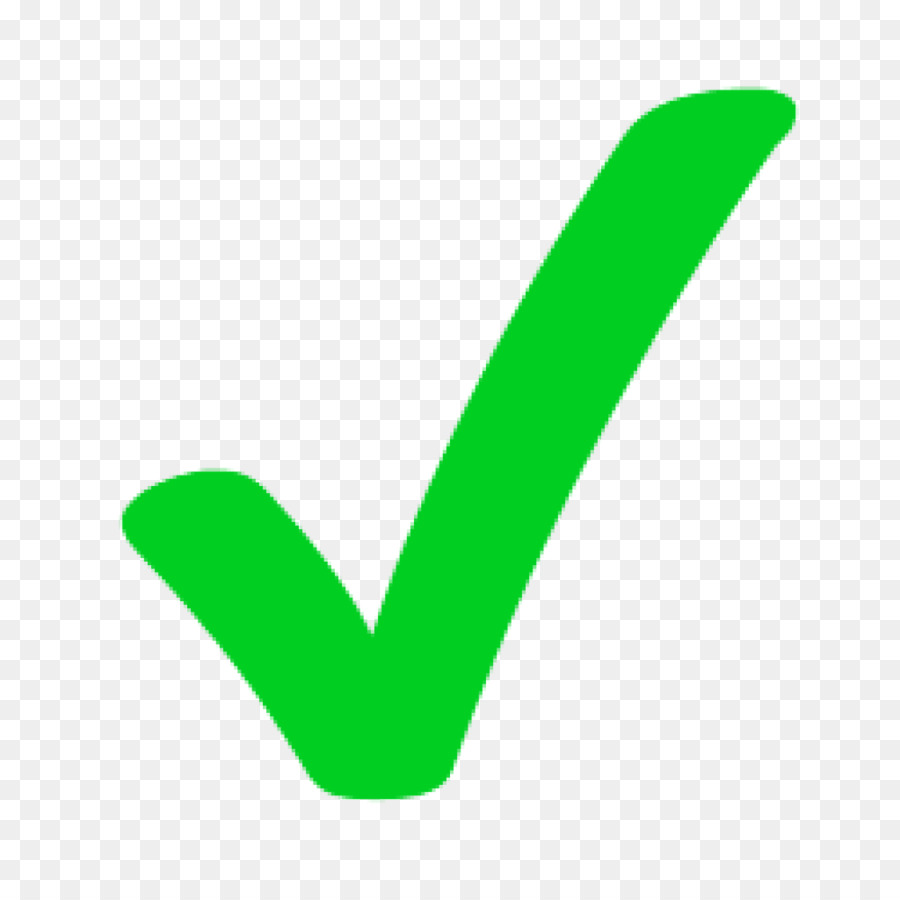
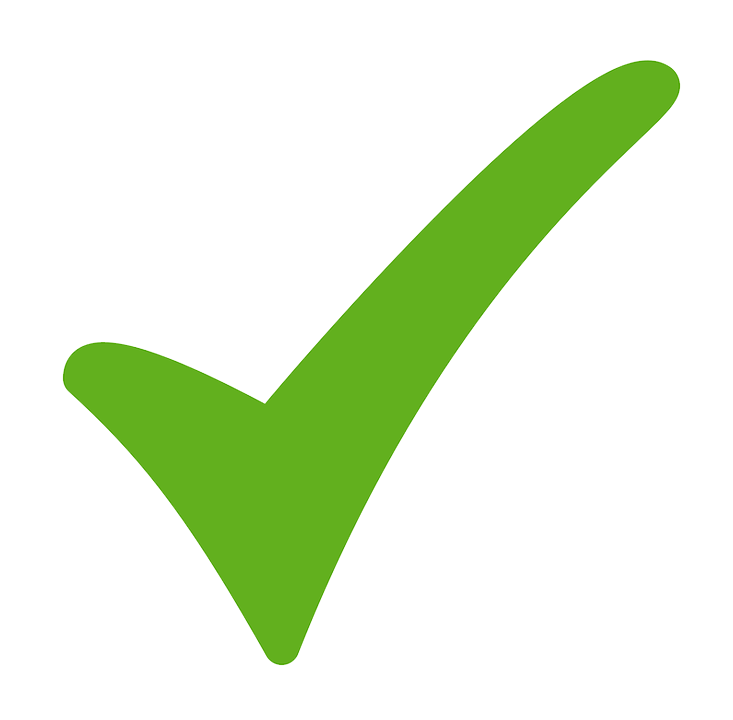
Update done button image in script.js

Changed region(s): [[0.09, 0.0611, 0.9304, 0.9472]]

diff --git a/script.js b/script.js
@@ -96,7 +96,7 @@ document.addEventListener('DOMContentLoaded', function() {
         listItem.textContent = task.content;
 
         var doneButton = document.createElement('button');
-        doneButton.innerHTML = '<img src="check3.png" alt="Done" style="width: 20px; height: 20px;">';
+        doneButton.innerHTML = '<img src="check.png" alt="Done" style="width: 20px; height: 20px;">';
         doneButton.classList.add('done-button');
         doneButton.addEventListener('click', function() {
             task.completed = true;
